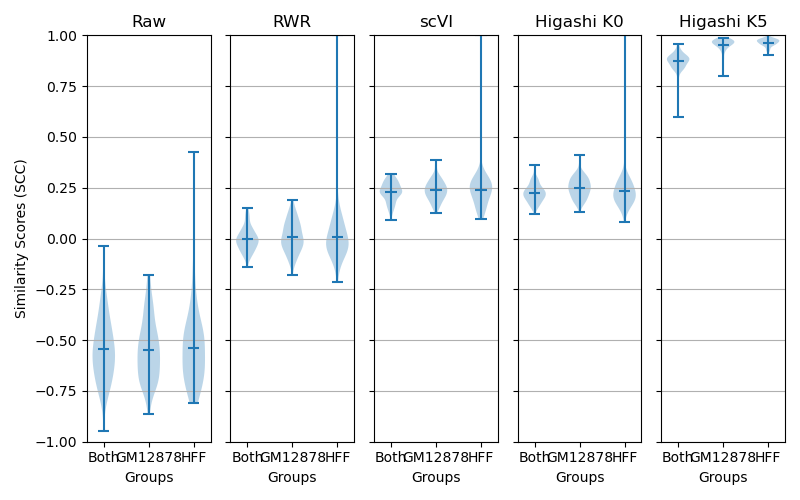
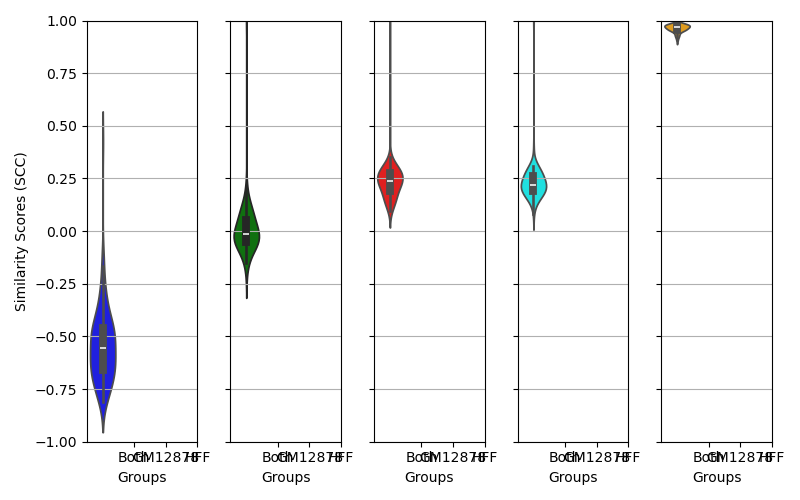
new plots

diff --git a/experiments/2023-09-18/plot_SCC_2.py b/experiments/2023-09-18/plot_SCC_2.py
@@ -1,7 +1,7 @@
 import pandas as pd
 import os
 import matplotlib.pyplot as plt
-
+import seaborn as sns
 Kim2020_cools = "/project/compbio-lab/scHi-C/Kim2020/similarity_scores/Kim2020_cools"
 rwr_cools = "/project/compbio-lab/scHi-C/Kim2020/similarity_scores/rwr_cools"
 scVI_cools = "/project/compbio-lab/scHi-C/Kim2020/similarity_scores/scVI_cools"
@@ -65,7 +65,7 @@ plt.clf()
 
 violins = []
 fig, axes = plt.subplots(1, 5, figsize=(8, 5))
-
+colors = sns.color_palette('husl', n_colors=5)
 # Set the common x-axis ticks and labels
 x_ticks = [1, 2, 3]
 x_tick_labels = ["Both", "GM12878", "HFF"]
@@ -79,7 +79,7 @@ for i, d in enumerate(dirs):
         all_violin_data.append(temp_df["HiCRep_SCC"])
 #    print(len(all_violin_data))
     # pos = [j+1] * 5
-    v = ax.violinplot(all_violin_data, positions=[1,2,3], showmeans=True, showmedians=False)                
+    sns.violinplot(all_violin_data,ax=ax, palette=[colors[i]]*3)                
         # Set colors for the violin bodies
 #    for violin, color in zip(v['bodies'], colors):
 #        violin.set_facecolor(color)
@@ -102,14 +102,14 @@ for i, d in enumerate(dirs):
     if i != 0:
         ax.set_yticklabels([])
 axes[0].set_ylabel('Similarity Scores (SCC)')
-axes[0].set_title("Raw")
-axes[1].set_title("RWR")
-axes[2].set_title("scVI")
-axes[3].set_title("Higashi K0")
-axes[4].set_title("Higashi K5")
+#axes[0].set_title("Raw")
+#axes[1].set_title("RWR")
+#axes[2].set_title("scVI")
+#axes[3].set_title("Higashi K0")
+#axes[4].set_title("Higashi K5")
 # Add a legend to the first subplot (you can customize this as needed)
 #axes.legend(violins, ["Raw", "RWR", "scVI", "Higashi K0", "Higashi K5"], loc='upper left', bbox_to_anchor=(1, 1))
-plt.subplots_adjust(wspace=-0.25)
+plt.subplots_adjust(wspace=0)
 plt.tight_layout()
 plt.savefig(os.path.join("/project/compbio-lab/scHi-C/Kim2020/similarity_scores/SCC_plot_h0_subplots.png"))
 plt.savefig(os.path.join("/home/maa160/SnapHiC-D/experiments/2023-09-18/SCC_plot_h0_subplots.png"))
